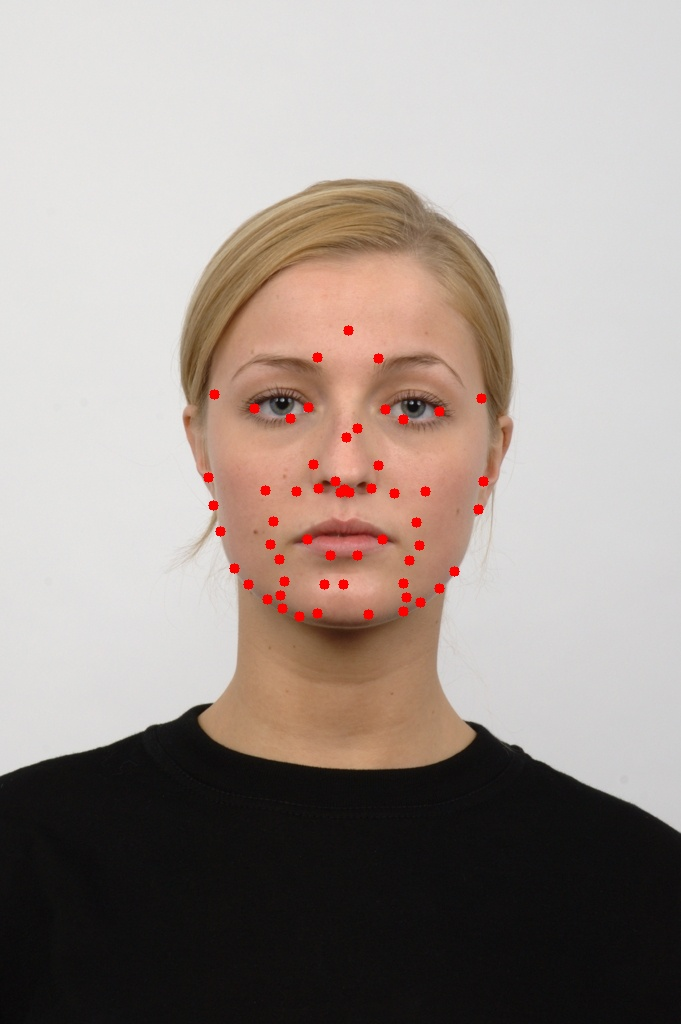
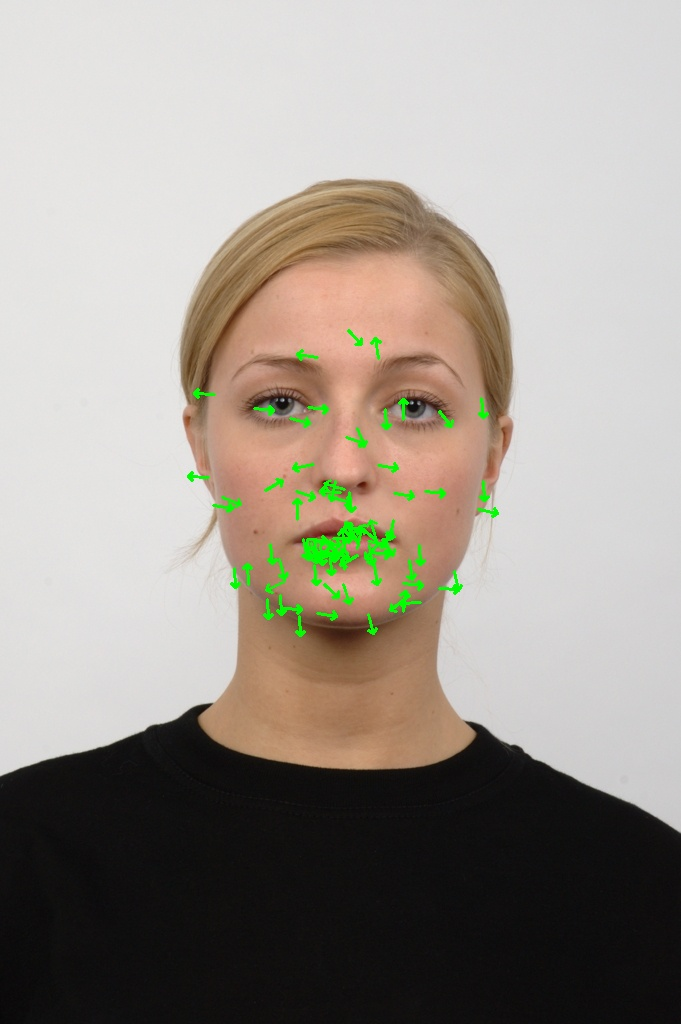
added script for plotting directions

diff --git a/landmark/visualize_landmark.py b/landmark/visualize_landmark.py
@@ -1,33 +1,37 @@
 import cv2
 import mediapipe as mp
 import numpy as np
+import pandas as pd
 
 # Initialize mediapipe Face Mesh
 mp_face_mesh = mp.solutions.face_mesh
 face_mesh = mp_face_mesh.FaceMesh()
 
+# Path to CSV containing landmark differences
+csv_difference_path = 'landmark_differences_csvs/radboud/SUR.csv'
+landmark_differences = pd.read_csv(csv_difference_path)
+
 # Your specific landmark points
-# landmark_indices = [1,168,205,425,10,190,414,162,389,152]
+landmark_indices = [30, 32, 34, 36, 38, 66, 88, 156, 168, 170, 172, 174, 176, 178, 180, 182, 184, 192, 194, 214, 272, 274, 278, 282, 294, 298, 300, 302, 306, 340, 342, 344, 346, 352, 354, 358, 360, 362, 364, 366, 390, 400, 402, 404, 406, 410, 418, 422, 424, 526, 628, 630, 632, 634, 636, 638, 640, 642, 644, 672, 730, 732, 736, 740, 756, 758, 760, 790, 792, 794, 796, 802, 806, 808, 810, 812, 814, 838, 844, 846, 850, 858, 862, 864]
 
-##### 1 index
-
-landmark_indices = [38, 66, 88, 118, 168, 214, 272, 274, 278, 282, 298, 300, 302, 306, 340, 342, 344, 346, 352, 354, 366, 390, 400, 402, 404, 406, 410, 418, 422, 424, 430, 432, 526, 578, 628, 672, 730, 732, 736, 740, 756, 758, 760, 790, 792, 794, 796, 802, 814, 838, 844, 846, 850, 858, 862, 864, 872]
+# Process landmark indices if needed
 def process_landmark_indices(landmark_indices):
     '''
         Function to process landmark indices
     '''
     new_landmark_indices = []
     for i in landmark_indices:
-        if i%2==0:
-            new_landmark_indices.append(i//2)
+        if i % 2 == 0:
+            new_landmark_indices.append(i // 2)
         else:
-            new_landmark_indices.append(i//2 + 1)
+            new_landmark_indices.append(i // 2 + 1)
 
     new_landmark_indices = list(set(new_landmark_indices))
     return new_landmark_indices
 
 landmark_indices = process_landmark_indices(landmark_indices)
 
+# Load the image
 image_path = 'radboud_nut_sample.jpg'  # Provide the path to your image
 image = cv2.imread(image_path)
 
@@ -35,23 +39,43 @@ image = cv2.imread(image_path)
 image_rgb = cv2.cvtColor(image, cv2.COLOR_BGR2RGB)
 result = face_mesh.process(image_rgb)
 
+# Set a fixed arrow length
+fixed_length = 20 # Change this value to control the arrow size
+
 if result.multi_face_landmarks:
     for face_landmarks in result.multi_face_landmarks:
+        h, w, _ = image.shape
+        
         for idx in landmark_indices:
-            h, w, _ = image.shape
+            x_col = idx
+            y_col = idx + 1
+
+            # Get the direction from the CSV data
+            x_direction = landmark_differences.iloc[:, x_col].mean() * w
+            y_direction = landmark_differences.iloc[:, y_col].mean() * h
+
+            # Normalize the direction vector and scale it to the fixed length
+            magnitude = np.sqrt(x_direction**2 + y_direction**2)
+            if magnitude > 0:
+                x_direction = (x_direction / magnitude) * fixed_length
+                y_direction = (y_direction / magnitude) * fixed_length
 
             # Get the position of the landmark
             lm = face_landmarks.landmark[idx]
             x, y = int(lm.x * w), int(lm.y * h)
 
-            # Color the landmark point (e.g., red)
-            cv2.circle(image, (x, y), 5, (0, 0, 255), -1)
+            start_point = (x, y)
+            end_point = (int(x + x_direction), int(y + y_direction))
+            color = (0, 255, 0)  # Green color for arrows
+            thickness = 2
 
-# Save the image with colored landmarks
+            cv2.arrowedLine(image, start_point, end_point, color, thickness, tipLength=0.3)
+
+# Save the image with standardized arrows
 output_path = 'nimstim_single_hpy.jpg'  # Specify the output path
 cv2.imwrite(output_path, image)
 
 # Optionally display the image
-cv2.imshow('Face with Colored Landmarks', image)
+cv2.imshow('Face with Standardized Arrows', image)
 cv2.waitKey(0)  # Wait indefinitely until a key is pressed
 cv2.destroyAllWindows()
